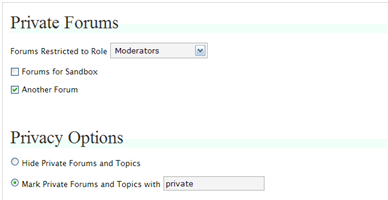
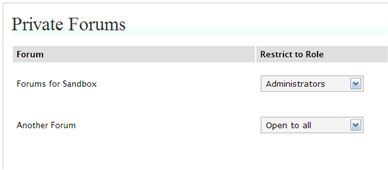
Version 5.0 :   * Access Roles can be set for each forums now   * Fixed the results of search   * Fixed RSS

diff --git a/private-forums/trunk/private-forums.php b/private-forums/trunk/private-forums.php
@@ -4,7 +4,7 @@ Plugin Name: Private Forums
 Plugin URI: http://www.adityanaik.com/projects/plugins/bb-private-forums/
 Description: Regulate Access to forums in bbPress
 Author: Aditya Naik
-Version: 4.0
+Version: 5.0
 Author URI: http://www.adityanaik.com/
 
 Version History:
@@ -23,6 +23,9 @@ Version History:
 			: Changed where the options are stored.
 			: Added Upgrade Function
 			: Options can now be set by role administrator
+5.0		: Access Roles can be set for each forums now
+			: Fixed the results of search
+			: Fixed RSS 
 */
 
 private_forums_upgrade();
@@ -37,15 +40,28 @@ function private_forums_add_admin_page() {
 
 function private_forums_custom_get_options($option) {
 	global $private_forums_options;
-	if(!isset($private_forums_options)) 
+	if(!isset($private_forums_options)) {
 		$private_forums_options = bb_get_option('private_forums_options');
+		$private_forums = $private_forums_options['private_forums'];
+		$private_forums_for_user = array();
+		foreach($private_forums as $forum => $role) {
+			if(!private_forums_check_user_access_to_forum($role))
+				$private_forums_for_user[$forum] = $role;
+		}
+		$private_forums_options['private_forums'] = $private_forums_for_user;
+	}
 	return $private_forums_options[$option];
 }
 
 function private_forums_upgrade() {
 	$private_forums_options = bb_get_option('private_forums_options');
-	if(!isset($private_forums_options['version']) || $private_forums_options['version'] < 40) 
+	if(!isset($private_forums_options['version']) || $private_forums_options['version'] < 40) {
 		private_forums_upgrade_4_0();		
+		$private_forums_options = bb_get_option('private_forums_options');
+	}
+	if($private_forums_options['version'] < 41) {
+		private_forums_upgrade_4_1();
+	}
 }
 
 function private_forums_upgrade_4_0() {
@@ -66,37 +82,60 @@ function private_forums_upgrade_4_0() {
 	bb_update_option('private_forums_options', $private_forums_options);
 }
 
-function private_forums_get_option($option) {
-	return (bb_get_option($option)) ? bb_get_option($option) : array() ;
+function private_forums_upgrade_4_1() {
+	$private_forums_options = bb_get_option('private_forums_options');
+	$private_forums = $private_forums_options['private_forums'];
+	$user_role = $private_forums_options['user_role'];
+	if('ADMINSTRATOR' == $user_role) $user_role = 'ADMINISTRATOR';
+	foreach($private_forums as $forums => $role) {
+		$private_forums[$forums] = $user_role;
+	}
+	$private_forums_options['private_forums'] = $private_forums;
+	$private_forums_options['version'] = 41;
+	unset($private_forums_options['user_role']);
+	bb_update_option('private_forums_options', $private_forums_options);
+}
+
+function private_forums_display_role_dropdown($name, $index, $role) {
+	?>
+	<p>
+		<select name="<?php echo $name . '[' . $index . ']'; ?>" id="<?php echo $name . '_' . $index ; ?>">
+			<option value="OPEN" <?php echo ($role == 'OPEN') ? 'selected' : '' ; ?>>Open to all</option>
+			<option value="MEMBER" <?php echo ($role == 'MEMBER') ? 'selected' : '' ; ?>>Registered Members</option>
+			<option value="MODERATOR" <?php echo ($role == 'MODERATOR') ? 'selected' : '' ; ?>>Moderators</option>
+			<option value="ADMINISTRATOR" <?php echo ($role == 'ADMINISTRATOR') ? 'selected' : '' ; ?>>Administrators</option>
+		</select>
+	</p>
+	<?php
 }
 
 function private_forums_admin_page() {
 	$forums = get_forums();
-	$private_forums = private_forums_custom_get_options('private_forums');
+	$private_forums_options = bb_get_option('private_forums_options');
+	$private_forums = $private_forums_options['private_forums'];
 	?>
 		<h2>Private Forums</h2>
 		<form method="post" name="private_forum_form" id="private_forum_form">
-			<p>
-				<label for="user_role">Forums Restricted to Role</label>
-				<select name="user_role" id="user_role">
-					<option value="MEMBER" <?php echo (private_forums_custom_get_options('user_role') == 'MEMBER') ? 'selected' :'' ;?>>Registered Members</option>
-					<option value="MODERATOR" <?php echo (private_forums_custom_get_options('user_role') == 'MODERATOR') ? 'selected' :'' ;?>>Moderators</option>
-					<option value="ADMINSTRATOR" <?php echo (private_forums_custom_get_options('user_role') == 'ADMINSTRATOR') ? 'selected' :'' ;?>>Adminstrators</option>
-				</select>
-			</p>
-			<?php
-			foreach($forums as $forum) {
-				?>
-					<p>
-						<input type="checkbox" id="private_forums_<?php echo $forum->forum_id; ?>" 
-							name = "private_forums[<?php echo $forum->forum_id; ?>]" 
-							value = "Y"
-							<?php echo (array_key_exists($forum->forum_id,$private_forums) ? ' checked ' : '') ; ?> > 
-						<label for="private_forums_<?php echo $forum->forum_id; ?>"><?php echo $forum->forum_name; ?></label>
-					</p>
-				<?php
-			}
-			?>
+			<table class="widefat">
+				<thead>
+					<tr>
+						<th>Forum</th>
+						<th>Restrict to Role</th>
+					</tr>
+				</thead>
+				<tbody>
+					<?php
+					foreach($forums as $forum) {
+						?>
+						<tr>
+							<td><label for="private_forums_<?php echo $forum->forum_id; ?>"><?php echo $forum->forum_name; ?></label></td>
+							<td><?php private_forums_display_role_dropdown('private_forums', $forum->forum_id, $private_forums[$forum->forum_id]); ?></td>
+						</tr>
+						<?php
+					}
+					?>
+				</tbody>
+			</table>
 			<p class="submit"><input type="submit" name="submit" value="Submit"></p>
 		<h2>Privacy Options</h2>
 		<?php
@@ -144,7 +183,6 @@ function private_forums_admin_page() {
 
 function private_forums_process_post() {
 	if(isset($_POST['submit'])) {
-		global $private_forums_options;
 		$private_forums_options = bb_get_option('private_forums_options');
 		$private_forums_options['private_forums'] = (isset($_POST['private_forums'])) ? $_POST['private_forums'] : array();
 		$private_forums_options['failure_msg'] = $_POST['failure_msg'];
@@ -152,8 +190,9 @@ function private_forums_process_post() {
 		if ('SHOW_PRIVATE'== $private_forums_options['hide_show_flag']) {
 			$private_forums_options['private_text'] = empty($_POST['private_text']) ? 'private' : $_POST['private_text'];
 		}
-		$private_forums_options['user_role'] = $_POST['user_role'];
+		
 		bb_update_option('private_forums_options',$private_forums_options);
+		unset($GLOBALS['private_forums_options']);
 	}
 }
 
@@ -165,16 +204,18 @@ function private_forums_initialize_filters() {
 
 	if ($_SERVER['PHP_SELF'] != $login_page) {
 		$private_forums = private_forums_custom_get_options('private_forums');
-		if ( !private_forums_check_user_access() && !empty($private_forums)) {
+		if ( !empty($private_forums)) {
 			add_action( 'bb_forum.php_pre_db', 'private_forums_check_private_forum' );
 			add_action( 'bb_topic.php_pre_db', 'private_forums_check_private_topic' );
 			add_action( 'bb_tag-single.php', 'private_forums_check_private_tag' );
+			add_action( 'bb_rss.php', 'private_forums_filter_stuff_in_rss' );
 
 			if (private_forums_custom_get_options('hide_show_flag') == 'SHOW_PRIVATE') {
 				add_filter( 'get_forum_name', 'private_forums_add_private_name_to_forums', 10,2);
 				add_filter( 'get_topic_title', 'private_forums_add_private_name_to_topics', 10,2);
 			} else {
 				add_action( 'bb_head', 'private_forums_filter_topics_in_head' );
+				add_action( 'do_search', 'private_forums_filter_stuff_in_search_results' );
 				add_filter( 'get_forums','private_forums_filter_forums');
 			}
 
@@ -203,6 +244,22 @@ function private_forums_filter_topics_in_head() {
 	$super_stickies = private_forums_filter_topics($super_stickies);
 }
 
+function private_forums_filter_stuff_in_search_results() {
+	global $titles, $recent, $relevant;
+	$titles = private_forums_filter_topics($titles);
+	$recent = private_forums_filter_posts($recent);
+	$relevant = private_forums_filter_posts($relevant);
+}
+
+function private_forums_filter_stuff_in_rss() {
+	global $posts, $forum_id, $topic;
+	$posts = private_forums_filter_posts($posts);
+	$private_forums = private_forums_custom_get_options('private_forums');
+	if(array_key_exists($forum_id,$private_forums) || array_key_exists($topic->forum_id,$private_forums)) {
+		exit();
+	}
+}
+
 function private_forums_check_private_forum($forum_id) {
 
 	$private_forums = private_forums_custom_get_options('private_forums');
@@ -224,9 +281,7 @@ function private_forums_check_private_tag($tag_id) {
 	global $topics;
 
 	$topics = private_forums_filter_topics($topics);
-	if (empty($topics)) {
-		bb_die(__(sprintf(private_forums_format_error(private_forums_custom_get_options('failure_msg')), 'tag')));
-	}
+
 }
 
 function private_forums_filter_forums($forums) {
@@ -237,8 +292,6 @@ function private_forums_filter_forums($forums) {
 		foreach($forums as $forum) {
 			if(!array_key_exists($forum->forum_id,$private_forums)) {
 				$new_forums[] = $forum;
-			} else {
-				//$new_forums[] = $forum;
 			}
 		}
 		return $new_forums ;
@@ -264,6 +317,20 @@ function private_forums_filter_topics($topics) {
 	return $topics;
 }
 
+function private_forums_filter_posts($posts) {
+	$new_posts = array();
+	if ($posts) {
+		$private_forums = private_forums_custom_get_options('private_forums');
+		foreach($posts as $post) {
+			if(!array_key_exists($post->forum_id,$private_forums)) {
+				$new_posts[] = $post;
+			}
+		}
+		return $new_posts ;
+	}
+	return $posts;
+}
+
 function private_forums_add_private_name_to_forums($text, $id) {
 	$private_forums = private_forums_custom_get_options('private_forums');
 	if(array_key_exists($id,$private_forums)) {
@@ -284,21 +351,22 @@ function private_forums_add_private_name_to_topics($text, $id) {
 	}
 }
 
-function private_forums_check_user_access() {
-	if(bb_current_user()) {
-		switch(private_forums_custom_get_options('user_role')) {
-			case 'MODERATOR':
-				return bb_current_user_can('moderate');
-				break;
-			case 'ADMINSTRATOR':
-				return bb_current_user_can('administrate');
-				break;
-			default:
-				return bb_current_user_can('participate');
-				break;
-		}
-	} else {
-		return false;
+function private_forums_check_user_access_to_forum($access) {
+	switch($access) {
+		case 'MODERATOR':
+			return bb_current_user_can('moderate');
+			break;
+		case 'ADMINISTRATOR':
+			return bb_current_user_can('administrate');
+			break;
+		case 'MEMBER':
+			return bb_current_user_can('participate');
+			break;
+		case 'OPEN':
+			return true;
+			break;
+		default:
+			return true;
 	}
 }
 
